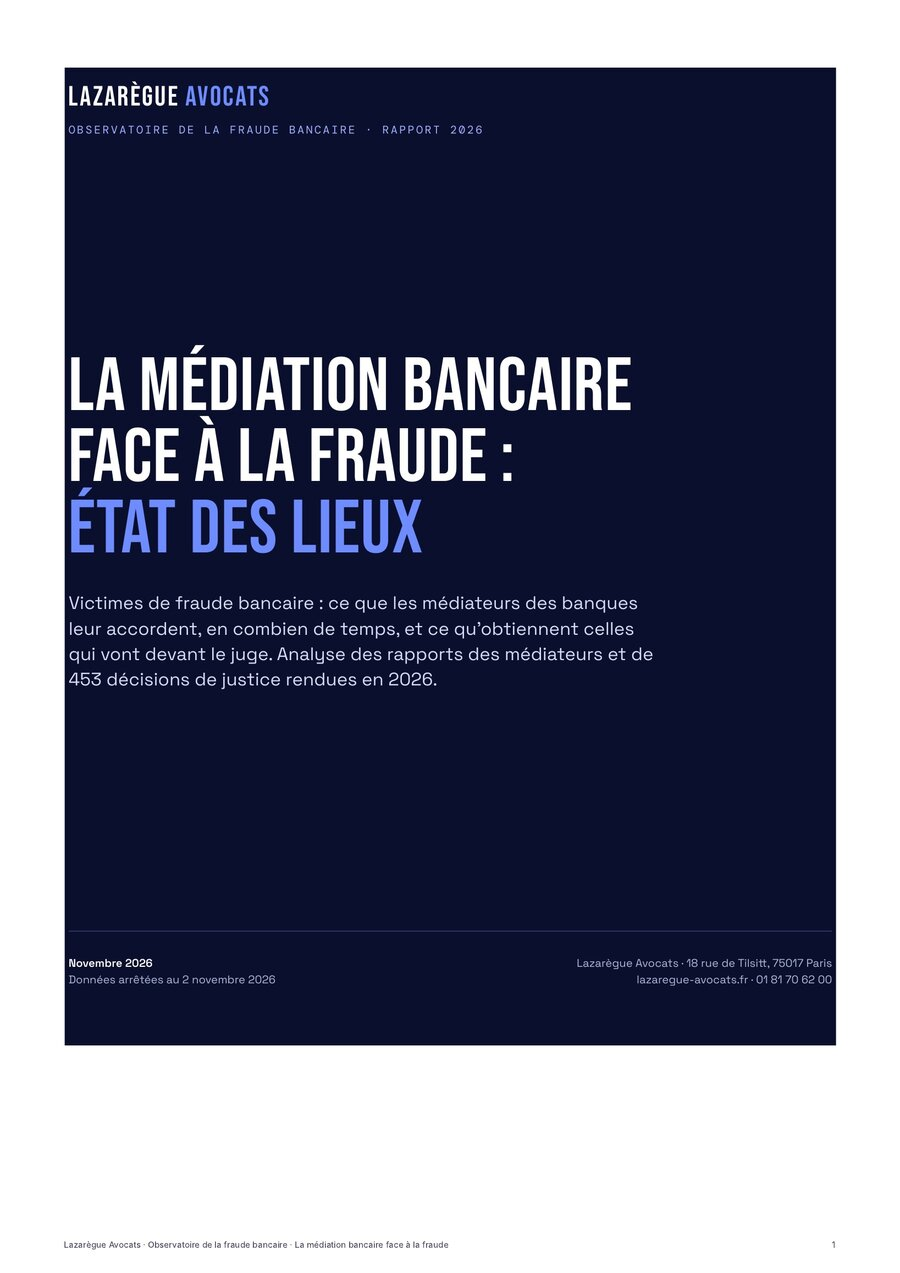
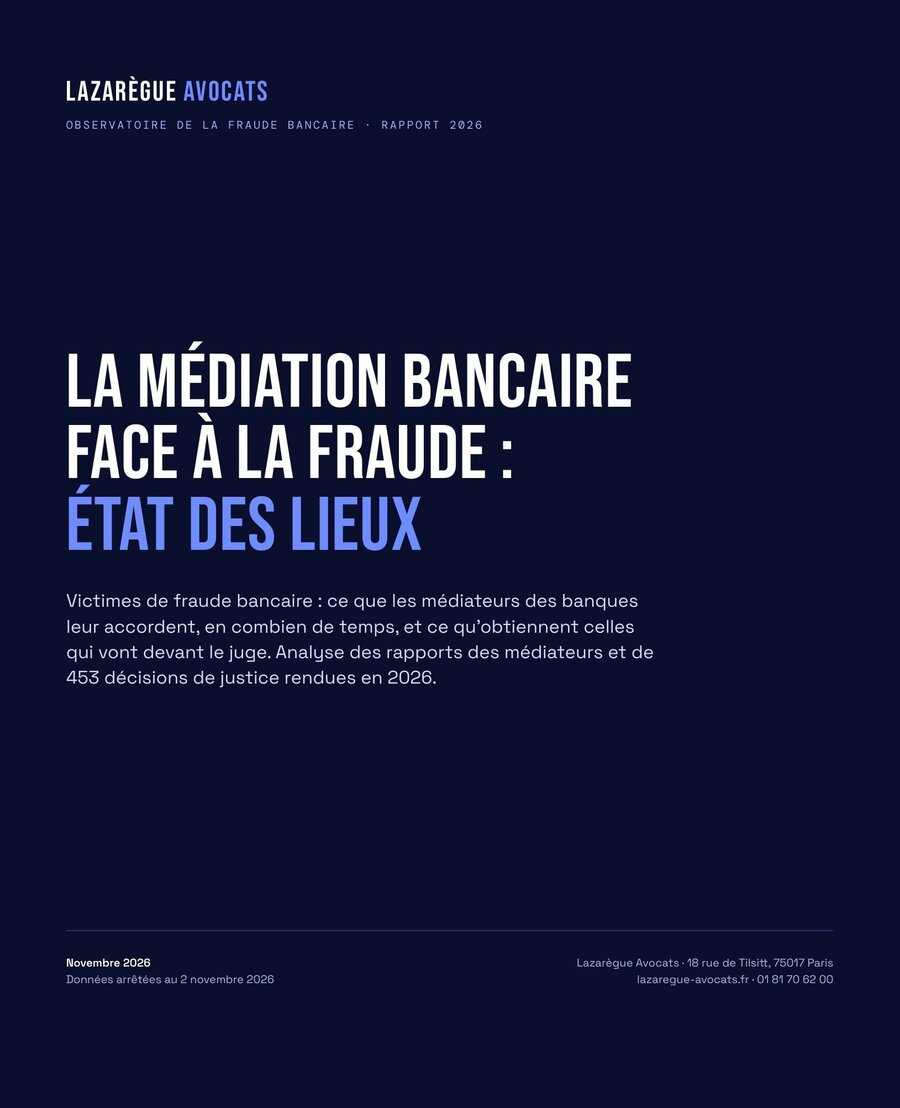
Observatoire 2026 : couverture sans la marge blanche de la page PDF
Couverture recadrée sur le bloc navy (marge navy ajoutée autour du texte),
dimensions de l'image mises à jour (900 × 1108).

Claude-Session: https://claude.ai/code/session_01DUEcsDqs5TbzX5tMcVCyh3

diff --git a/app/ressources/observatoire-mediation-bancaire-2026/page.tsx b/app/ressources/observatoire-mediation-bancaire-2026/page.tsx
@@ -317,7 +317,7 @@ export default function Page() {
                 src={COUVERTURE}
                 alt="Couverture du rapport « La médiation bancaire face à la fraude : état des lieux »"
                 width={900}
-                height={1273}
+                height={1108}
                 sizes="(max-width: 899px) 260px, 380px"
                 priority
               />
@@ -522,7 +522,7 @@ export default function Page() {
       <section id="telecharger" className={styles.telecharger} aria-labelledby="dl-titre">
         <div className={styles.wrap}>
           <div className={styles.dlCadre}>
-            <Image className={styles.dlCouverture} src={COUVERTURE} alt="" width={900} height={1273} sizes="170px" />
+            <Image className={styles.dlCouverture} src={COUVERTURE} alt="" width={900} height={1108} sizes="170px" />
             <div className={styles.dlCorps}>
               <p className="eyebrow">RAPPORT COMPLET · PDF · 12 PAGES</p>
               <h2 id="dl-titre" className={styles.dlTitre}>Télécharger l&apos;observatoire 2026</h2>
